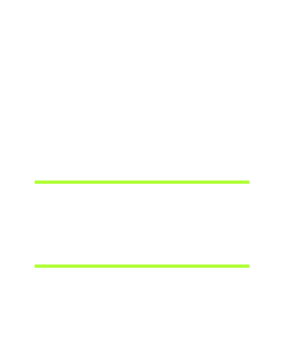
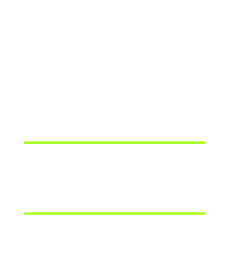
Add files via upload

Changed region(s): [[0.0913, 0.738, 0.913, 0.797], [0.0913, 0.5018, 0.913, 0.5314]]

diff --git a/css/mediaqueries.css b/css/mediaqueries.css
@@ -214,8 +214,8 @@
   
    .mainbanner {
     background-image: url(../img/intro-banner-iphone.png);
-    width: 289px;
-    height: 347px;
+    width: 230.13px;
+    height: 271.42px;
     margin: 100px auto;
   }
   
@@ -406,8 +406,8 @@
   
     .mainbanner {
     background-image: url(../img/intro-banner-iphone.png);
-    width: 289px;
-    height: 347px;
+    width: 230.13px;
+    height: 271.42px;
     margin: 100px auto;
   }
   
@@ -907,7 +907,7 @@
   
   .mainbanner {
     background-image: url(../img/intro-banner.png);
-    width: 1264.67px;
+    width: 1284.67px;
     height: 254.4px;
     margin: 150px auto;
   }
